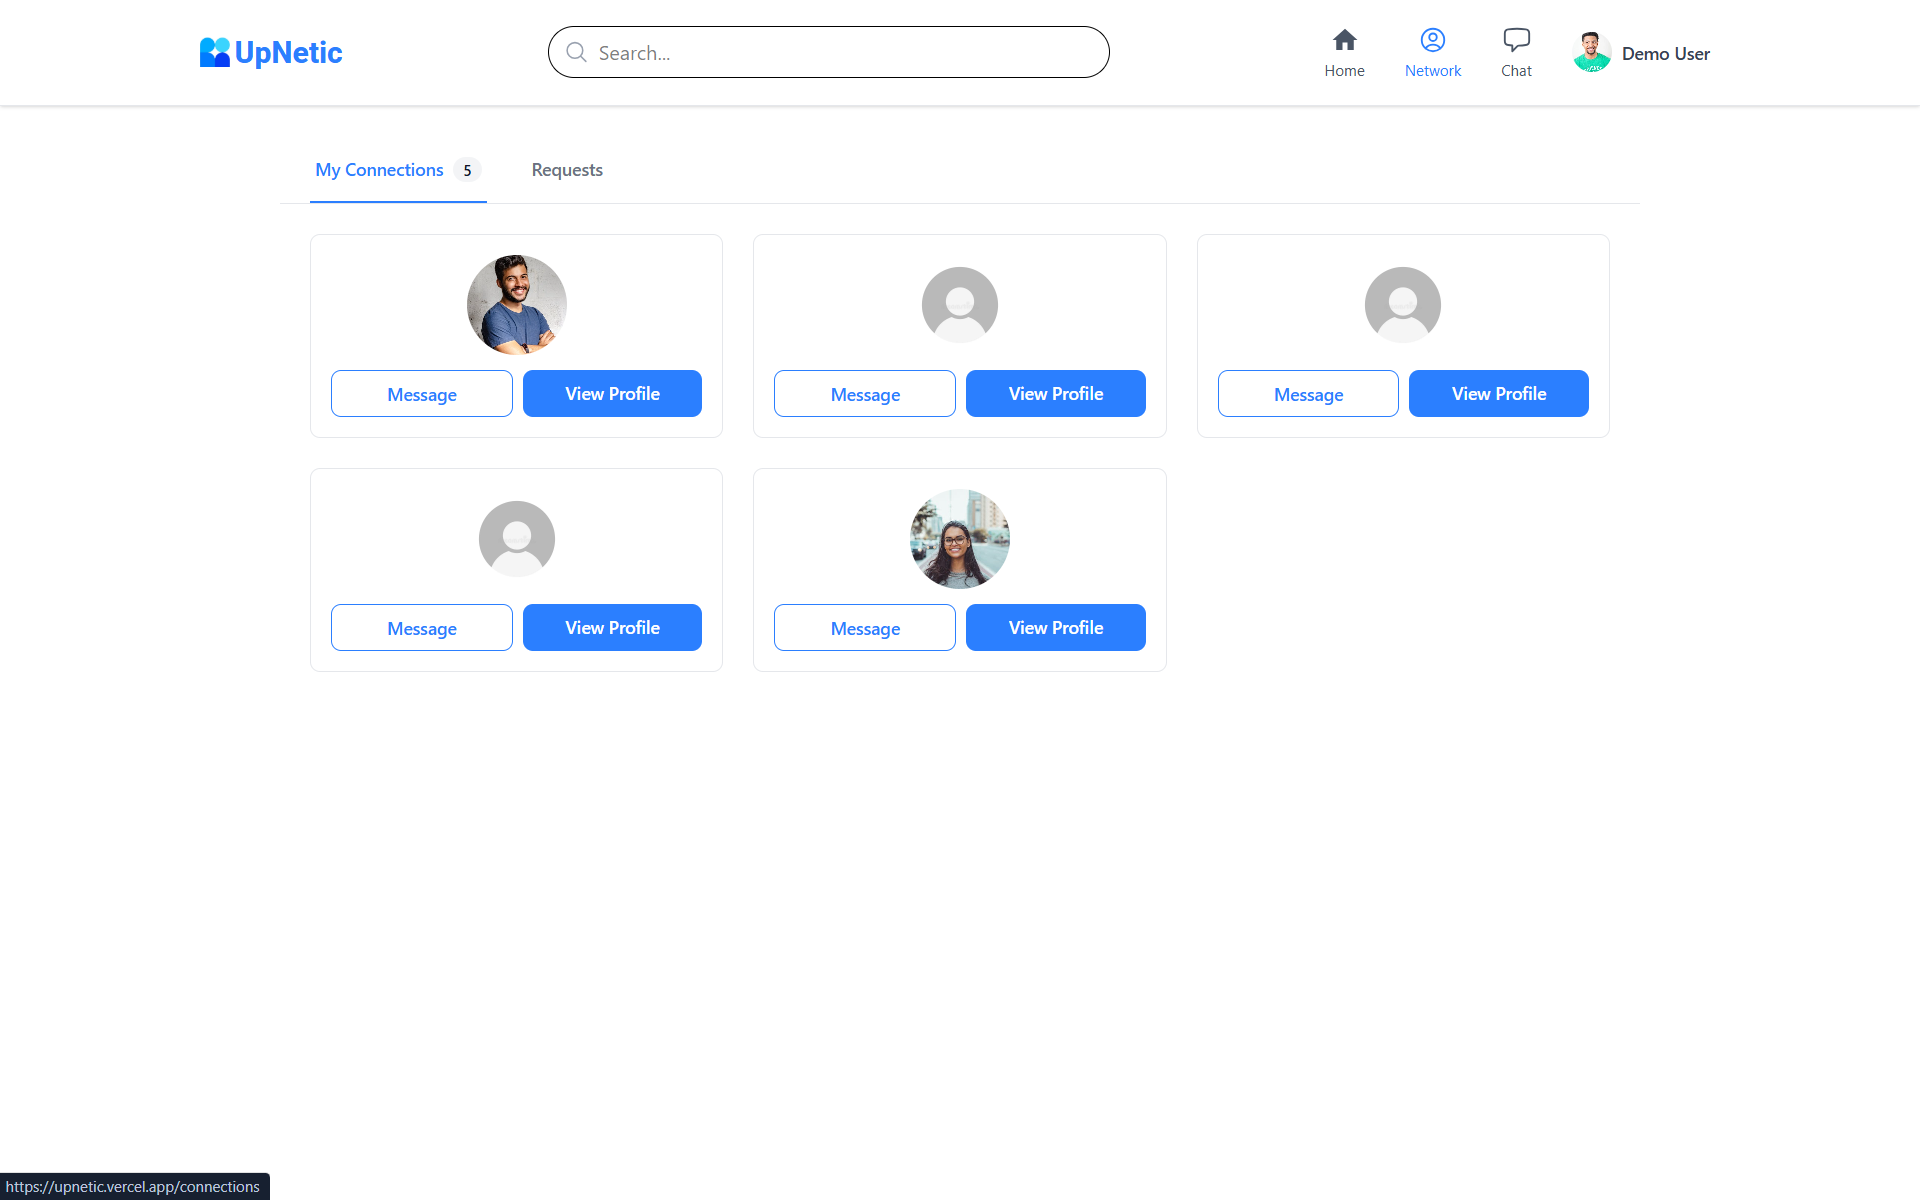
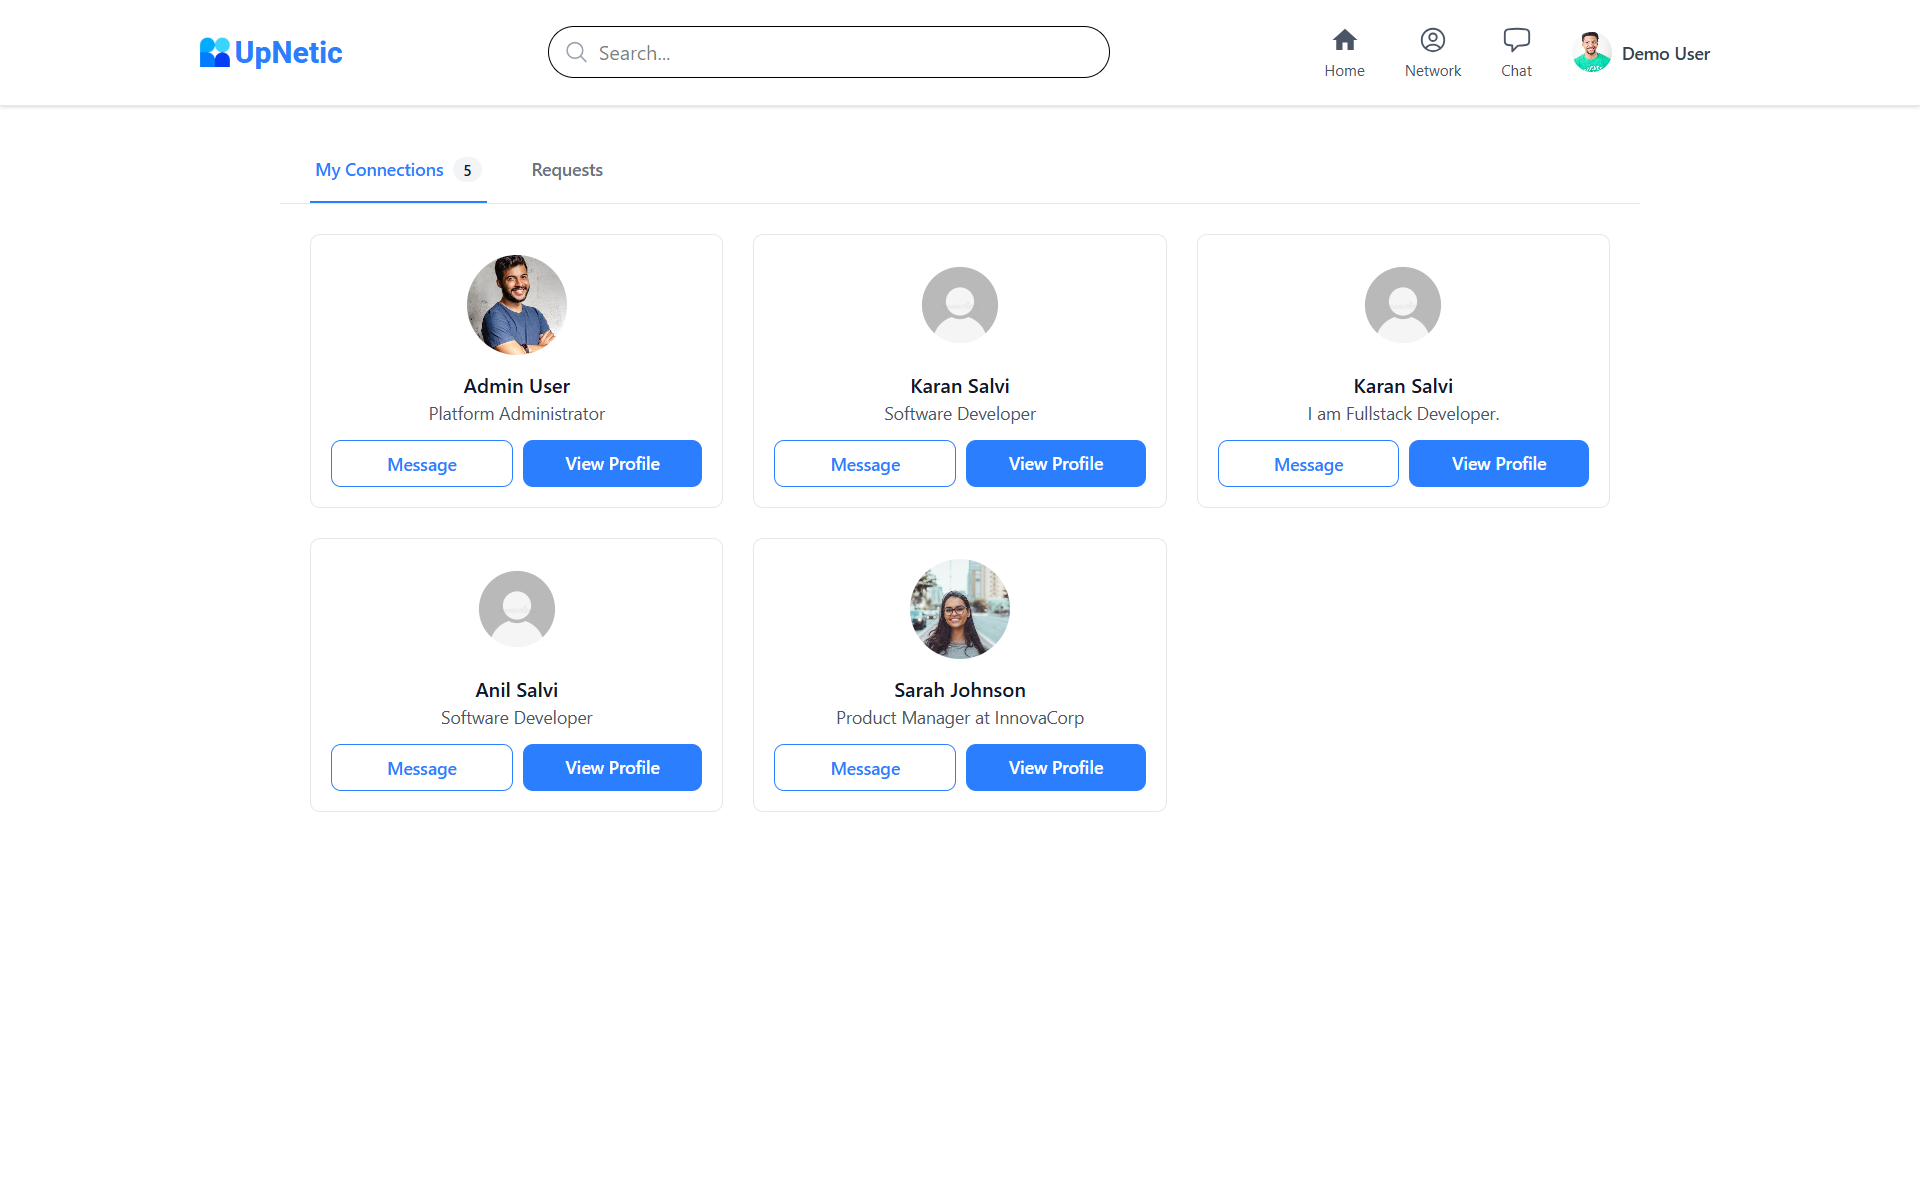
feat: improve chat and connection features with updated images and socket logic

diff --git a/Frontend/src/pages/Chat.jsx b/Frontend/src/pages/Chat.jsx
@@ -27,9 +27,11 @@ const Chat = () => {
 
   const { data: chatsData, isLoading: chatsLoading } = useGetChatsQuery();
   const { data: messagesData, isLoading: messagesLoading } =
-    useGetChatMessagesQuery(activeChat?._id, { skip: !activeChat });
+    useGetChatMessagesQuery(activeChat?._id, {
+      skip: !activeChat?._id, // Prevents undefined error
+    });
 
-  console.log("messagesData is : ", chatsData);
+  console.log("messagesData is : ", messagesData);
 
   useEffect(() => {
     if (user?._id) {
@@ -59,6 +61,8 @@ const Chat = () => {
     dispatch(setActiveChat(chat));
   };
 
+  console.log("Handler send message is : ", activeChat?.lastMessage?.sender);
+
   const handleSendMessage = (e) => {
     e.preventDefault();
     if (!messageText.trim() || !activeChat) return;
@@ -69,8 +73,15 @@ const Chat = () => {
       timestamp: new Date(),
     };
 
+    // socketService.sendMessage(activeChat._id, message);
+    // if (activeChat?.lastMessage?.sender !== user._id) {
+    //   dispatch(addMessage({ chatId: activeChat._id, message }));
+    // }
+
     socketService.sendMessage(activeChat._id, message);
+
     dispatch(addMessage({ chatId: activeChat._id, message }));
+
     setMessageText("");
   };
 
@@ -227,7 +238,8 @@ const Chat = () => {
                         []
                       ).map((message, index) => {
                         const isOwn = message.sender === user._id;
-
+                        console.log("message is : ", message);
+                        console.log("isOwn is : ", isOwn);
                         return (
                           <div
                             key={index}
@@ -238,7 +250,7 @@ const Chat = () => {
                             <div
                               className={`max-w-xs lg:max-w-md px-4 py-2 rounded-lg ${
                                 isOwn
-                                  ? "bg-linkedin-blue text-white"
+                                  ? "bg-blue-500 text-white"
                                   : "bg-gray-200 text-gray-900"
                               }`}
                             >

diff --git a/Frontend/src/store/api.js b/Frontend/src/store/api.js
@@ -134,14 +134,14 @@ export const api = createApi({
       providesTags: ["Chat"],
     }),
 
-    // 🟡 Get messages from a chat with pagination
-    getChatMessages: builder.query({
-      query: ({ chatId, page = 1, limit = 50 }) =>
-        `/${chatId}/messages?page=${page}&limit=${limit}`,
-      providesTags: (result, error, { chatId }) => [
-        { type: "Messages", id: chatId },
-      ],
-    }),
+    // // 🟡 Get messages from a chat with pagination
+    // getChatMessages: builder.query({
+    //   query: ({ chatId, page = 1, limit = 50 }) =>
+    //     `/${chatId}/messages?page=${page}&limit=${limit}`,
+    //   providesTags: (result, error, { chatId }) => [
+    //     { type: "Messages", id: chatId },
+    //   ],
+    // }),
 
     // 🟢 Create or get a direct chat
     createOrGetChat: builder.mutation({

diff --git a/Frontend/src/pages/Connections.jsx b/Frontend/src/pages/Connections.jsx
@@ -124,10 +124,10 @@ const Connections = () => {
                         className="w-20 h-20 rounded-full mx-auto mb-3 object-cover"
                       />
                       <h3 className="font-semibold text-gray-900">
-                        {connection.name}
+                        {connection.user.name}
                       </h3>
                       <p className="text-sm text-gray-600 mb-3">
-                        {connection.headline}
+                        {connection.user.headline}
                       </p>
                       <div className="flex space-x-2">
                         <button

diff --git a/Backend/routes/chats.js b/Backend/routes/chats.js
@@ -69,7 +69,8 @@ router.get('/:chatId', asyncHandler(async (req, res) => {
 // @access  Private
 router.get('/:chatId/messages', asyncHandler(async (req, res) => {
   const { chatId } = req.params;
-  const { page = 1, limit = 50 } = req.query;
+  console.log("chatId is : ", chatId);
+  const { page = 1, limit = 100 } = req.query;
   const userId = req.user._id;
 
   const chat = await Chat.findById(chatId);

diff --git a/Frontend/src/services/socket.js b/Frontend/src/services/socket.js
@@ -22,6 +22,12 @@ class SocketService {
     });
 
     this.socket.on("message", (data) => {
+      const state = store.getState();
+      const currentUserId = state.auth.user?._id;
+
+      // Skip if this message was sent by the current user
+      if (data.message?.sender?._id === currentUserId) return;
+
       store.dispatch(addMessage(data));
     });
 
